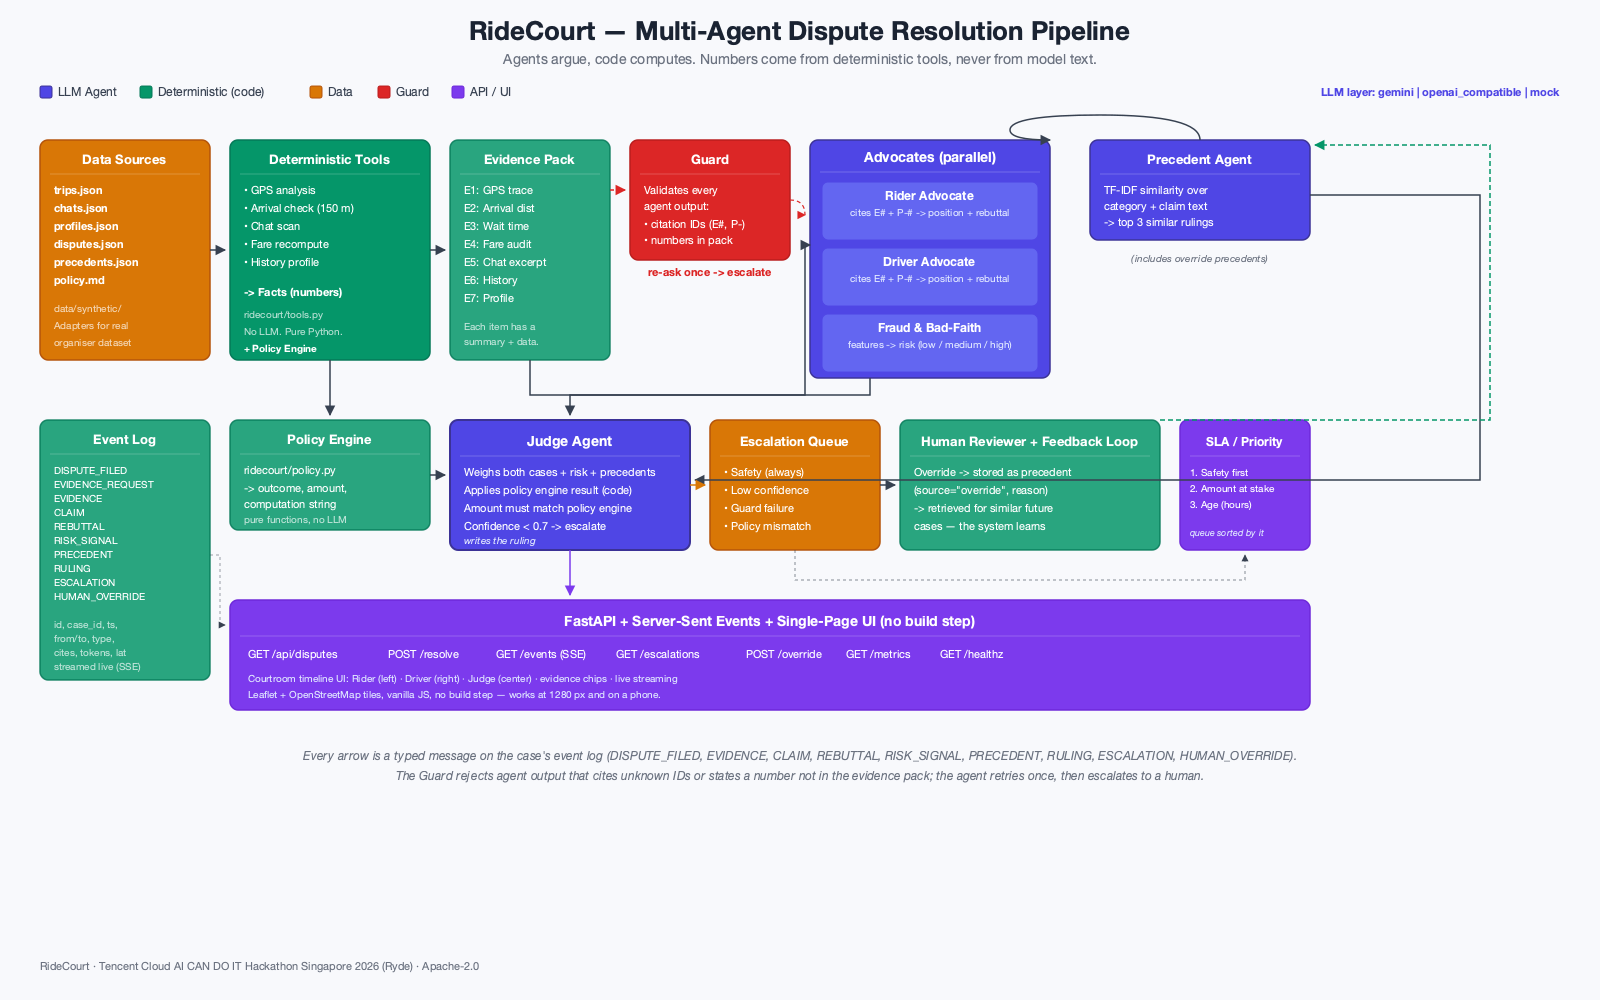
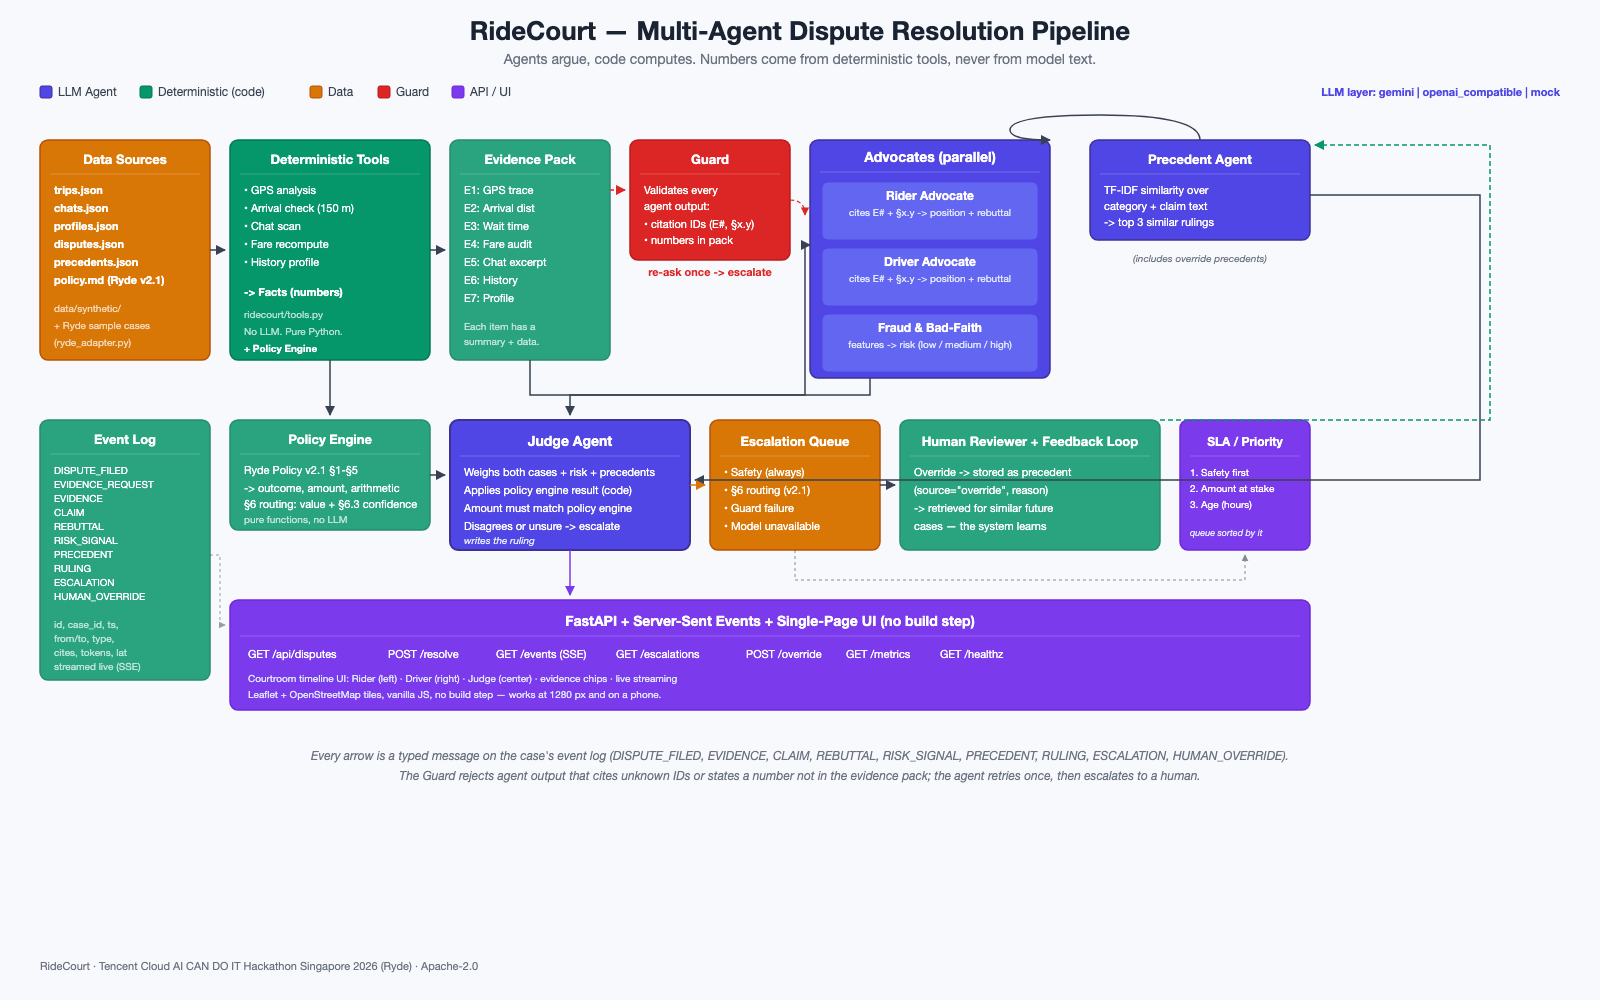
Fare evidence always states the upfront quote, the amount charged and the delta (real-Gemini advocates quoted the upfront quote, the guard rejected it, six surge cases escalated); §4.4 rider damage disputes route to a human, labels corrected; architecture diagram for v2.1

diff --git a/ridecourt/tools.py b/ridecourt/tools.py
@@ -846,20 +846,23 @@ def fare_check(trip: Trip) -> list[dict]:
         diff = 0.0
 
     parts: list[str] = []
+    # The source's own fare lines come first: a fare dispute is about the
+    # upfront quote against the amount charged, so the agents must be able to
+    # cite both (real-Gemini advocates quoted the upfront quote, which was
+    # only in the trip data, and the guard rejected it).
+    if upfront > 0:
+        parts.append(f"Upfront quote S${upfront:.2f}")
+    if charged > 0:
+        parts.append(f"Actual charged S${charged:.2f}")
+    if upfront > 0 and charged > 0:
+        delta = round(charged - upfront, 2)
+        parts.append(f"Delta S${delta:.2f}")
     if can_recompute:
         parts.append(
             f"Recomputed fare S${recomputed:.2f} vs charged S${charged:.2f} "
             f"(diff S${diff:.2f})"
         )
     else:
-        # Show the source's fare lines
-        if upfront > 0:
-            parts.append(f"Upfront quote S${upfront:.2f}")
-        if charged > 0:
-            parts.append(f"Actual charged S${charged:.2f}")
-        if upfront > 0 and charged > 0:
-            delta = round(charged - upfront, 2)
-            parts.append(f"Delta S${delta:.2f}")
         if trip.fare.excess_distance_km > 0:
             parts.append(
                 f"Excess distance {trip.fare.excess_distance_km:.1f} km, "

diff --git a/tests/test_rider_damage_dispute.py b/tests/test_rider_damage_dispute.py
@@ -1,0 +1,22 @@
+"""§4.4: if the rider disputes a damage charge, the dispute goes to human
+review. The first labels for these cases said "AI final", and the engine
+agreed, so the label test could not catch it; the live pre-resolve showed two
+rider damage disputes ruled by the AI."""
+
+from ridecourt.data import load_app_dataset
+from ridecourt.policy import evaluate
+from ridecourt.tools import build_evidence_pack, facts_from_evidence_pack
+
+
+def test_rider_damage_disputes_route_to_human():
+    ds = load_app_dataset()
+    cases = [d for d in ds.disputes.values()
+             if d.category == "property_damage" and d.filed_by == "rider"]
+    assert cases, "the synthetic set should contain rider damage disputes"
+    for d in cases:
+        trip = ds.trip(d.trip_id)
+        facts = facts_from_evidence_pack(build_evidence_pack(d, ds))
+        result = evaluate(d, trip, ds.profiles, facts, trip.fare)
+        assert result.routing == "human", d.dispute_id
+        assert "§4.4" in result.routing_reason, d.dispute_id
+        assert ds.label(d.dispute_id).routing == "human", d.dispute_id

diff --git a/ridecourt/policy.py b/ridecourt/policy.py
@@ -1036,6 +1036,12 @@ def evaluate(
         has_precedent_match=has_precedent_match,
     )
 
+    # §4.4: a rider disputing a damage charge always goes to human review,
+    # whatever its value (the engine still prepares the case file).
+    if result.outcome == "human_review_rider_dispute":
+        routing = "human"
+        routing_reason = "§4.4: the rider disputes the damage charge — human review"
+
     result.routing = routing
     result.routing_reason = routing_reason
     result.confidence = confidence
